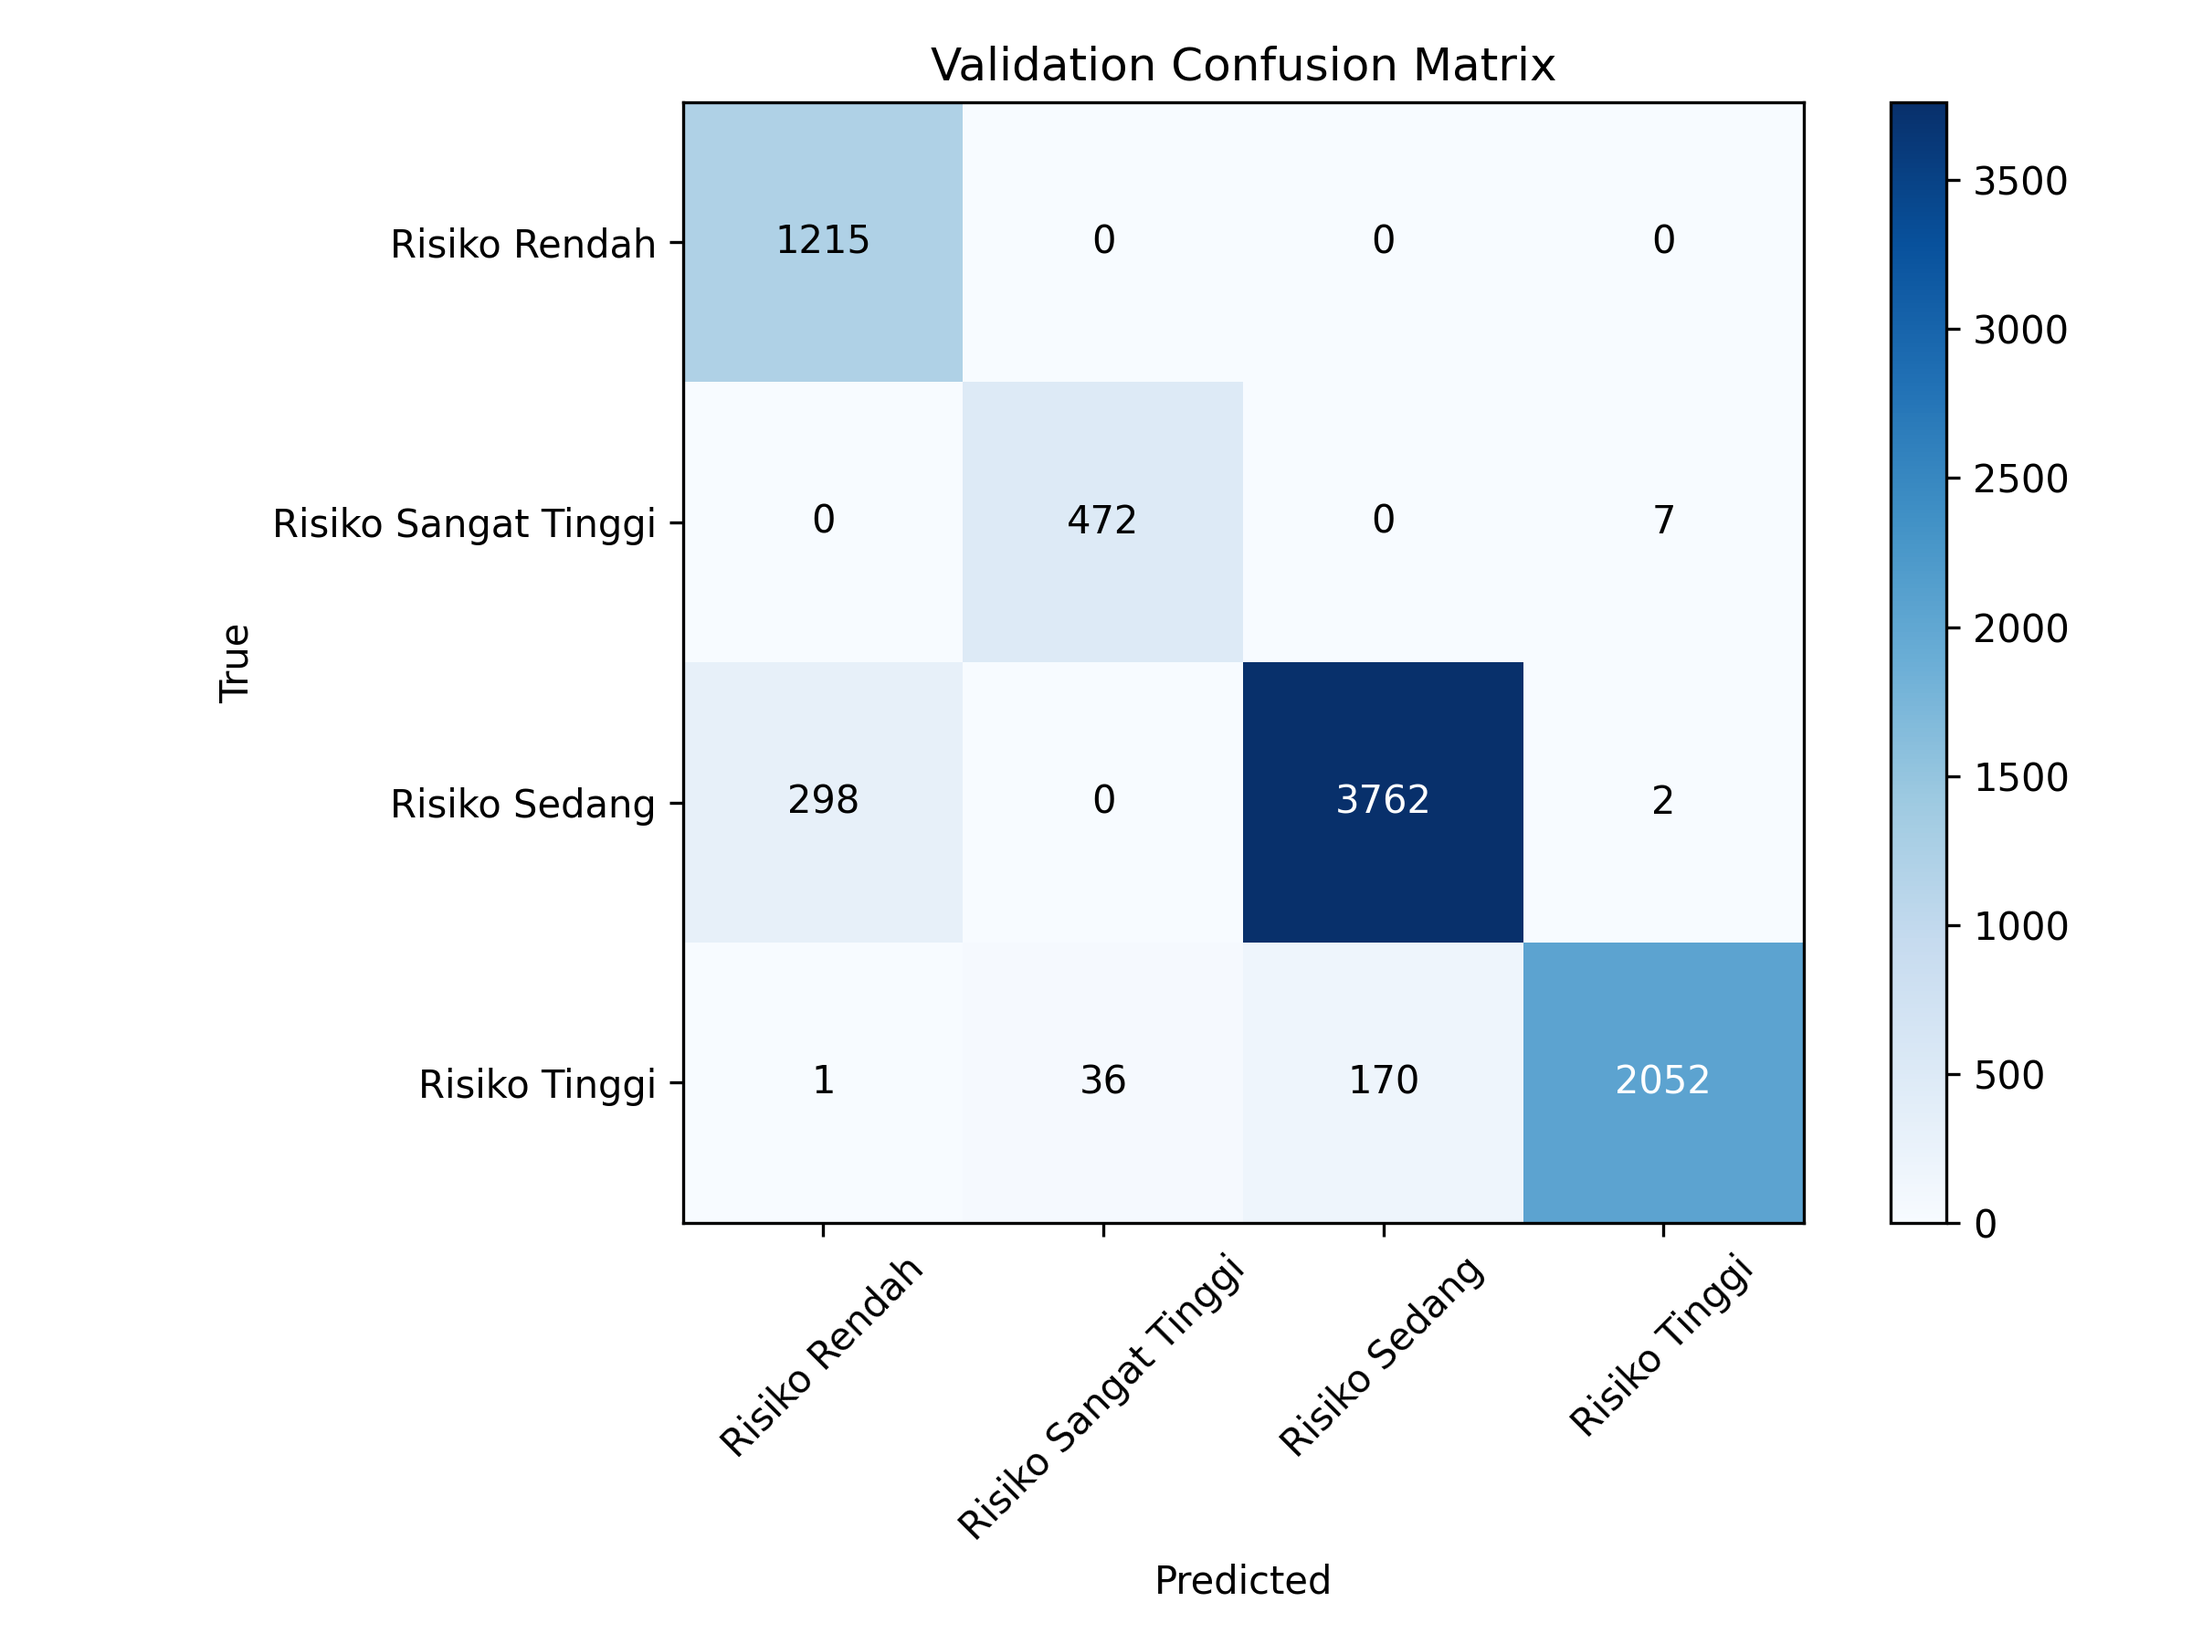
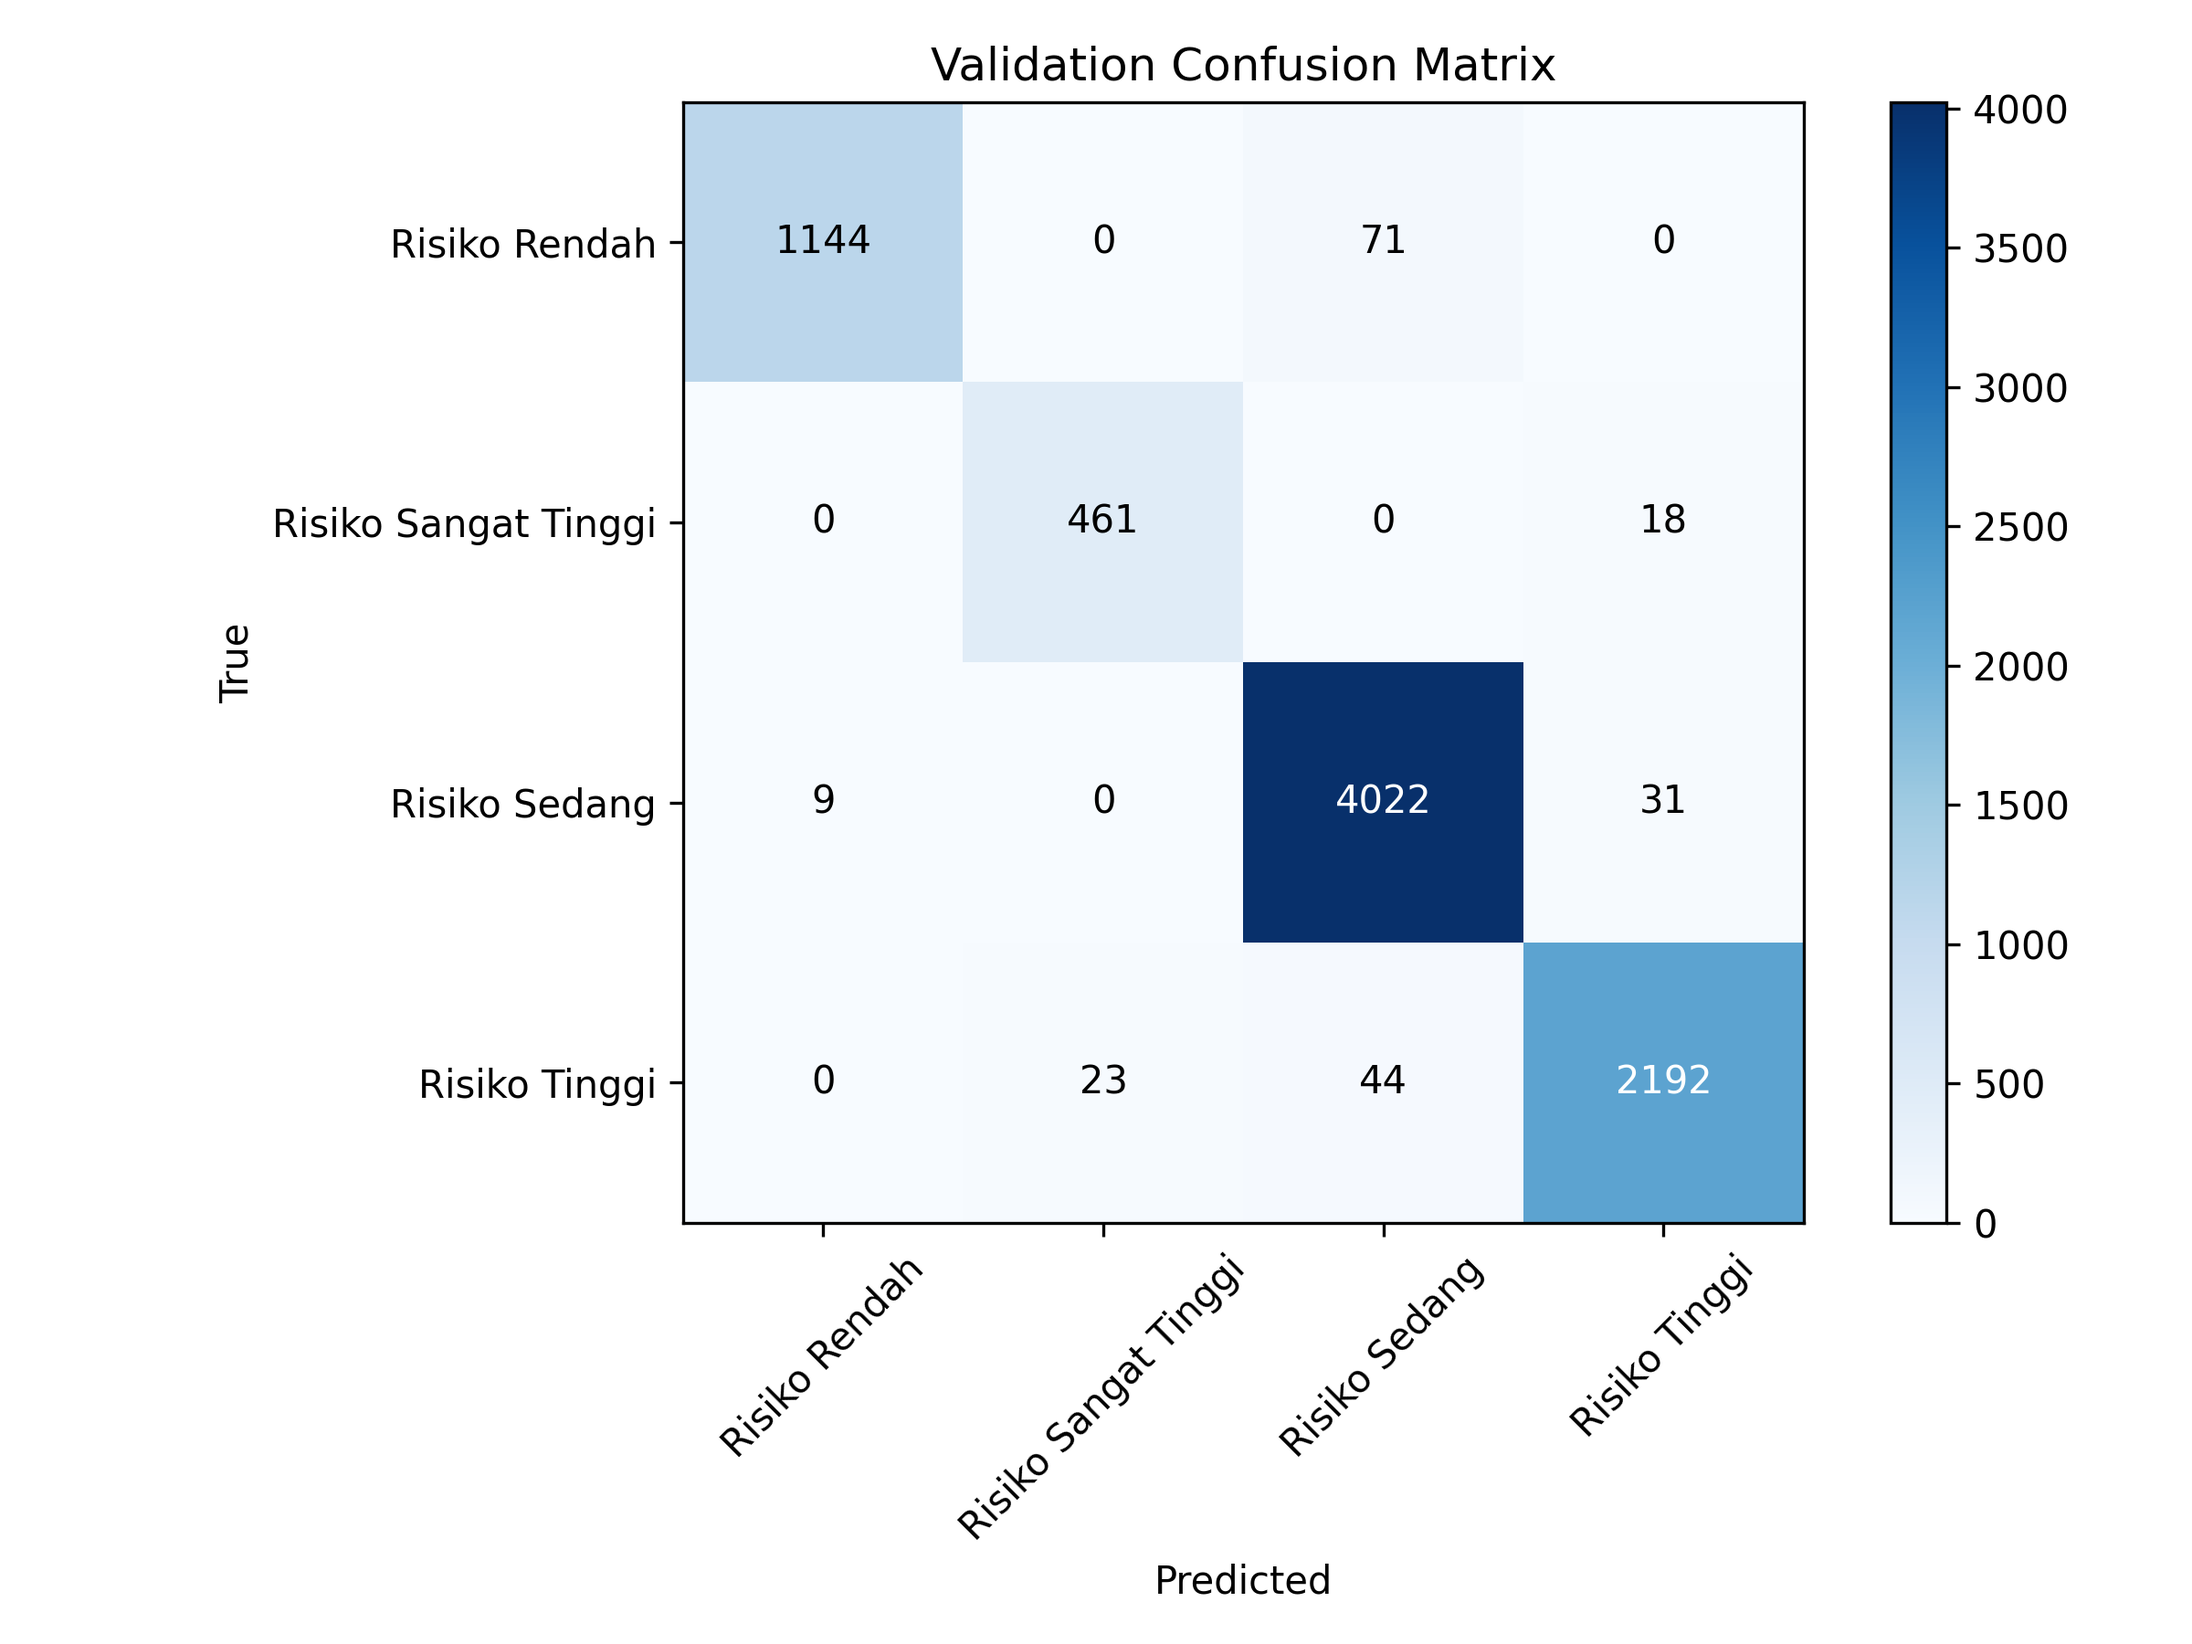
custom layer udah siap, akurasi sekitar train 96% dan val 94%

diff --git a/NOVA/mecine-learning-ai/notebooks/stunting_deep_learning.py b/NOVA/mecine-learning-ai/notebooks/stunting_deep_learning.py
@@ -20,13 +20,14 @@ from sklearn.preprocessing import StandardScaler, LabelEncoder
 import tensorflow as tf
 # Enable mixed‑precision training when a GPU is available
 from tensorflow.keras import mixed_precision
-mixed_precision.set_global_policy('mixed_float16')
+# mixed_precision.set_global_policy('mixed_float16') # Dimatikan untuk stabilitas float32 penuh
 
 # ---------------------------------------------------------------------------
 # Configuration
 # ---------------------------------------------------------------------------
-DATA_PATH = pathlib.Path(r"D:/CodingCamp/GithubNOVA/NOVA/mecine-learning-ai/dataset/data_bersih.csv")
-OUTPUT_DIR = pathlib.Path(r"D:/CodingCamp/GithubNOVA/NOVA/mecine-learning-ai/notebooks")
+# Lokasi BARU (yang benar)
+DATA_PATH = pathlib.Path(r"e:/BerkasNBL/Github_Project_Plan/NOVA/NOVA/mecine-learning-ai/dataset/data_bersih.csv")
+OUTPUT_DIR = pathlib.Path(r"e:/BerkasNBL/Github_Project_Plan/NOVA/NOVA/mecine-learning-ai/notebooks")
 OUTPUT_DIR.mkdir(parents=True, exist_ok=True)
 
 # ---------------------------------------------------------------------------
@@ -121,58 +122,189 @@ class F1Score(tf.keras.metrics.Metric):
             var.assign(0)
 
 # ---------------------------------------------------------------------------
-# Model architecture – three dense blocks with BatchNorm & Dropout
+# Custom Layer: Residual Dense Block
+# ---------------------------------------------------------------------------
+class ResidualDenseBlock(tf.keras.layers.Layer):
+    def __init__(self, units, dropout_rate=0.5, **kwargs):
+        super(ResidualDenseBlock, self).__init__(**kwargs)
+        self.dense = tf.keras.layers.Dense(units, activation="relu", kernel_regularizer=tf.keras.regularizers.l2(0.001))
+        self.bn = tf.keras.layers.BatchNormalization()
+        self.dropout = tf.keras.layers.Dropout(dropout_rate)
+        self.units = units
+        self.projection = None
+
+    def build(self, input_shape):
+        if input_shape[-1] != self.units:
+            self.projection = tf.keras.layers.Dense(self.units, use_bias=False, kernel_regularizer=tf.keras.regularizers.l2(0.001))
+        super(ResidualDenseBlock, self).build(input_shape)
+
+    def call(self, inputs, training=None):
+        x = self.dense(inputs)
+        x = self.bn(x, training=training)
+        x = self.dropout(x, training=training)
+        
+        # Skip connection: shortcut (inputs) + x
+        shortcut = inputs
+        if self.projection is not None:
+            shortcut = self.projection(inputs)
+            
+        return x + shortcut
+
+# ---------------------------------------------------------------------------
+# Model architecture – custom residual blocks
 # ---------------------------------------------------------------------------
 input_dim = X_train_scaled.shape[1]
 model = tf.keras.Sequential([
     tf.keras.layers.InputLayer(input_shape=(input_dim,)),
-    tf.keras.layers.Dense(256, activation="relu"),
-    tf.keras.layers.BatchNormalization(),
-    tf.keras.layers.Dropout(0.3),
-
-    tf.keras.layers.Dense(128, activation="relu"),
-    tf.keras.layers.BatchNormalization(),
-    tf.keras.layers.Dropout(0.3),
-
-    tf.keras.layers.Dense(64, activation="relu"),
-    tf.keras.layers.BatchNormalization(),
-    tf.keras.layers.Dropout(0.3),
-
-    tf.keras.layers.Dense(32, activation="relu"),
-    tf.keras.layers.BatchNormalization(),
-    tf.keras.layers.Dropout(0.3),
-
+    ResidualDenseBlock(256),
+    ResidualDenseBlock(128),
+    ResidualDenseBlock(64),
+    ResidualDenseBlock(32),
     tf.keras.layers.Dense(num_classes, activation="softmax"),
 ])
 
 model.summary()
 
 # ---------------------------------------------------------------------------
-# Compile model – Adam optimizer, sparse categorical loss, metrics
+# Custom Focal Loss & Callback
 # ---------------------------------------------------------------------------
-model.compile(
-    optimizer=tf.keras.optimizers.Adam(),
-    loss="sparse_categorical_crossentropy",
-    metrics=["accuracy", F1Score()],
-)
+def focal_loss(gamma=2., alpha=4.):
+    def focal_loss_fixed(y_true, y_pred):
+        y_true = tf.cast(tf.reshape(y_true, [-1]), tf.int32)
+        y_pred = tf.cast(y_pred, tf.float32) # numerical stability
+        y_true_one_hot = tf.one_hot(y_true, depth=tf.shape(y_pred)[-1], dtype=tf.float32)
+        epsilon = tf.keras.backend.epsilon()
+        y_pred = tf.clip_by_value(y_pred, epsilon, 1. - epsilon)
+        pt = tf.reduce_sum(y_true_one_hot * y_pred, axis=-1)
+        ce = -tf.math.log(pt + 1e-7)
+        fl = alpha * tf.math.pow(1. - pt, gamma) * ce
+        return tf.reduce_mean(fl)
+    return focal_loss_fixed
+
+class MyCustomCallback(tf.keras.callbacks.Callback):
+    def on_epoch_end(self, epoch, logs=None):
+        val_f1 = logs.get('val_f1_score')
+        if val_f1 is not None and val_f1 >= 0.95:
+            print("\nTarget F1-Score tercapai, menghentikan pelatihan untuk mencegah overfitting!")
+            self.model.stop_training = True
 
 # ---------------------------------------------------------------------------
-# Train the model
+# Custom Training Loop
 # ---------------------------------------------------------------------------
 EPOCHS = 200
-# Callbacks: early stopping, LR reduction, and model checkpoint
-early_stop = tf.keras.callbacks.EarlyStopping(monitor='val_accuracy', patience=15, restore_best_weights=True)
-reduce_lr = tf.keras.callbacks.ReduceLROnPlateau(monitor='val_loss', factor=0.5, patience=5, verbose=1)
-checkpoint = tf.keras.callbacks.ModelCheckpoint(filepath=OUTPUT_DIR / 'best_model.h5', monitor='val_accuracy', save_best_only=True, verbose=0)
 
-history = model.fit(
-    train_ds,
-    validation_data=val_ds,
-    epochs=EPOCHS,
-    class_weight=class_weight_dict,
-    callbacks=[early_stop, reduce_lr, checkpoint],
-    verbose=2,
+optimizer = tf.keras.optimizers.Adam()
+# LossScaleOptimizer dihapus karena mixed_float16 dinonaktifkan
+model.optimizer = optimizer 
+loss_fn = focal_loss(gamma=2.0, alpha=0.25)
+
+train_acc_metric = tf.keras.metrics.SparseCategoricalAccuracy(name='accuracy')
+train_f1_metric = F1Score(name='f1_score')
+train_loss_metric = tf.keras.metrics.Mean(name='loss')
+
+val_acc_metric = tf.keras.metrics.SparseCategoricalAccuracy(name='val_accuracy')
+val_f1_metric = F1Score(name='val_f1_score')
+val_loss_metric = tf.keras.metrics.Mean(name='val_loss')
+
+@tf.function
+def train_step(x, y):
+    with tf.GradientTape() as tape:
+        logits = model(x, training=True)
+        loss_value = loss_fn(y, logits) # Perhitungan loss menggunakan fungsi focal_loss
+    
+    grads = tape.gradient(loss_value, model.trainable_weights) # Perhitungan gradien standar
+    
+    optimizer.apply_gradients(zip(grads, model.trainable_weights)) # Penerapan optimizer (Adam)
+    
+    # Update metrik akurasi dan F1-Score
+    train_acc_metric.update_state(y, logits)
+    train_f1_metric.update_state(y, logits)
+    train_loss_metric.update_state(loss_value)
+    
+    return loss_value
+
+@tf.function
+def test_step(x, y):
+    logits = model(x, training=False)
+    loss_value = loss_fn(y, logits)
+    
+    val_acc_metric.update_state(y, logits)
+    val_f1_metric.update_state(y, logits)
+    val_loss_metric.update_state(loss_value)
+
+# Setup Callbacks
+early_stop = tf.keras.callbacks.EarlyStopping(
+    monitor='val_accuracy', 
+    mode='max', 
+    patience=15, 
+    restore_best_weights=True
 )
+reduce_lr = tf.keras.callbacks.ReduceLROnPlateau(monitor='val_loss', mode='min', factor=0.5, patience=5, verbose=1)
+checkpoint = tf.keras.callbacks.ModelCheckpoint(filepath=OUTPUT_DIR / 'best_model.h5', monitor='val_accuracy', mode='max', save_best_only=True, verbose=0)
+my_custom_cb = MyCustomCallback()
+
+callbacks = tf.keras.callbacks.CallbackList(
+    [early_stop, reduce_lr, checkpoint, my_custom_cb], 
+    add_history=True, 
+    model=model
+)
+
+history_dict = {"loss": [], "accuracy": [], "val_loss": [], "val_accuracy": []}
+
+print("Memulai Custom Training Loop...")
+model.stop_training = False 
+callbacks.on_train_begin()
+
+for epoch in range(EPOCHS):
+    callbacks.on_epoch_begin(epoch)
+    
+    train_loss_metric.reset_state()
+    train_acc_metric.reset_state()
+    train_f1_metric.reset_state()
+    
+    val_loss_metric.reset_state()
+    val_acc_metric.reset_state()
+    val_f1_metric.reset_state()
+    
+    for x_batch_train, y_batch_train in train_ds:
+        train_step(x_batch_train, y_batch_train)
+        
+    for x_batch_val, y_batch_val in val_ds:
+        test_step(x_batch_val, y_batch_val)
+        
+    train_loss = float(train_loss_metric.result())
+    train_acc = float(train_acc_metric.result())
+    train_f1 = float(train_f1_metric.result())
+    
+    val_loss = float(val_loss_metric.result())
+    val_acc = float(val_acc_metric.result())
+    val_f1 = float(val_f1_metric.result())
+    
+    # Progress Tracking : Cetak nilai Loss, Accuracy, dan F1-Score
+    print(f"Epoch {epoch+1}/{EPOCHS}")
+    print(f" - loss: {train_loss:.4f} - accuracy: {train_acc:.4f} - f1_score: {train_f1:.4f} "
+          f"- val_loss: {val_loss:.4f} - val_accuracy: {val_acc:.4f} - val_f1_score: {val_f1:.4f}")
+    
+    history_dict["loss"].append(train_loss)
+    history_dict["accuracy"].append(train_acc)
+    history_dict["val_loss"].append(val_loss)
+    history_dict["val_accuracy"].append(val_acc)
+    
+    logs = {
+        'loss': train_loss, 'accuracy': train_acc, 'f1_score': train_f1,
+        'val_loss': val_loss, 'val_accuracy': val_acc, 'val_f1_score': val_f1
+    }
+    callbacks.on_epoch_end(epoch, logs)
+    
+    if getattr(model, 'stop_training', False):
+        break
+
+callbacks.on_train_end()
+
+class MockHistory:
+    def __init__(self, history_dict):
+        self.history = history_dict
+history = MockHistory(history_dict)
 
 # ---------------------------------------------------------------------------
 # Save the trained model (optional)
@@ -184,7 +316,6 @@ print(f"Model saved to {model_save_path}")
 # ---------------------------------------------------------------------------
 # Plot learning curves (loss & accuracy) and save as PNG
 # (unchanged function definition follows)
-
 # ---------------------------------------------------------------------------
 def plot_learning_curves(history, output_dir: pathlib.Path):
     fig, axs = plt.subplots(1, 2, figsize=(12, 5))
@@ -256,5 +387,4 @@ def predict_risk(sample_features):
 # Example usage (uncomment to test)
 # sample = X_val[0]
 # print("Predicted risk:", predict_risk(sample))
-
 # End of script
